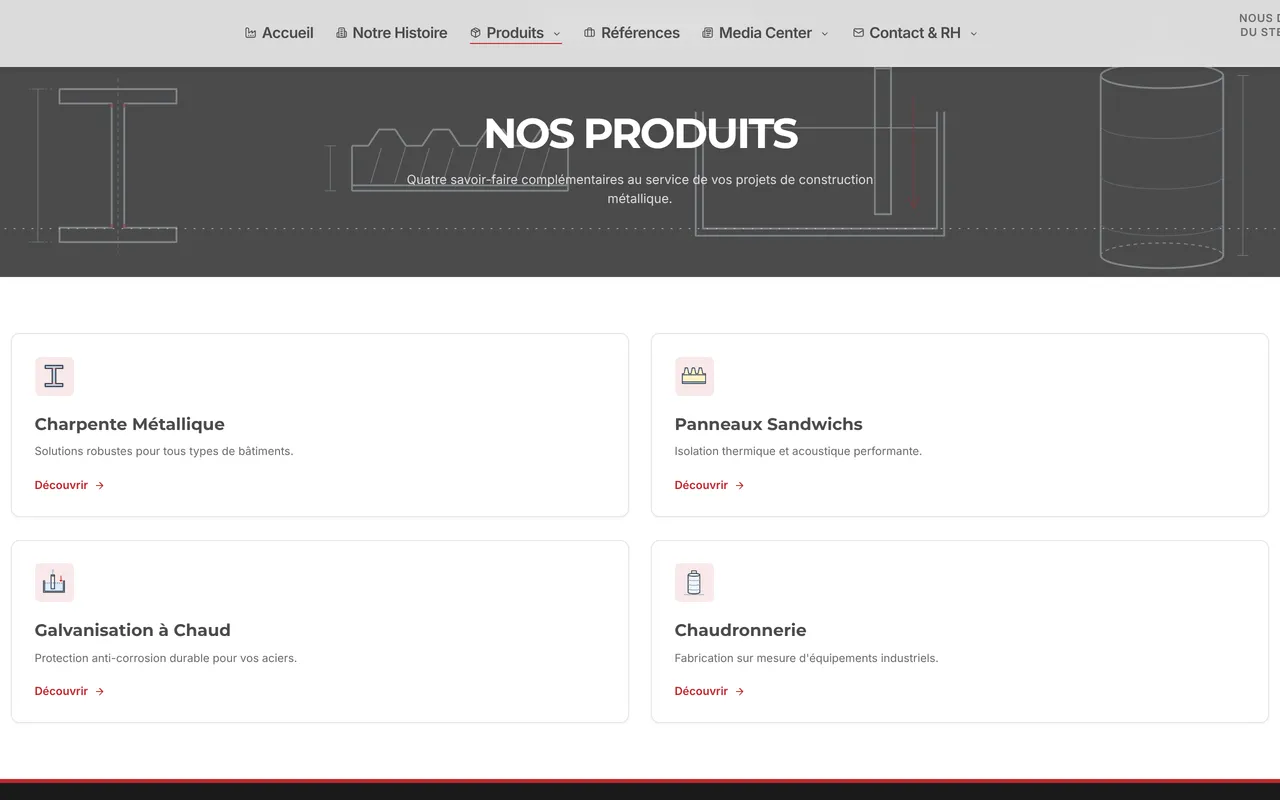
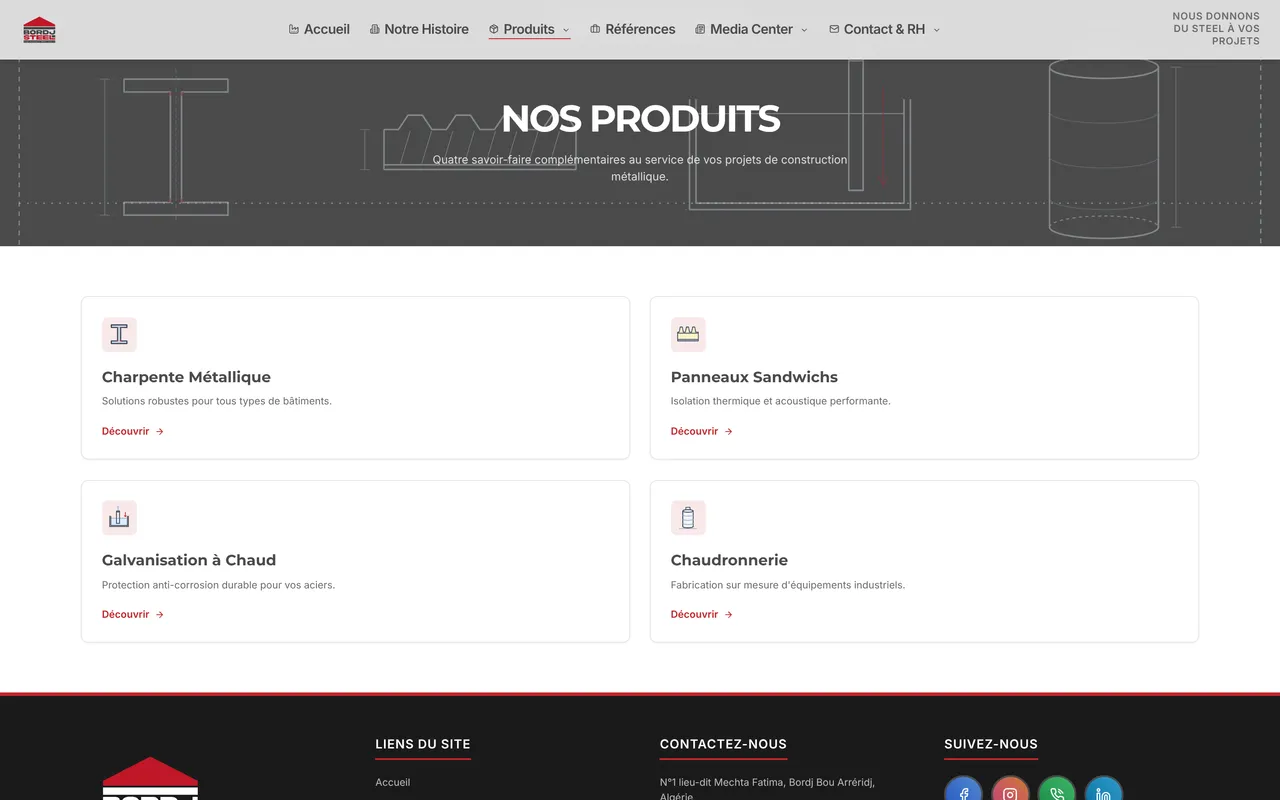
home: the drafted sheet carried to the footer (planche heads, crop-marked work plates two abreast, framed footer), tighter rhythm, whole captures
Section heads open on a numbered title-block rule (CSS counters, so the numbers follow the sections). The work is four plates with crop marks and a numbered caption, the live site on the title's line, two abreast from 720px. The Aperçu has its brackets, the founder is ruled not boxed, the footer closes the sheet in a brass-cornered frame. Section pad 56px phone / 80px at 1440, FAQ rows 56px. Bordj Steel's catalogue preview is the whole 1440 frame (the crop cut the nav), Nomara's keeps its headline whole. Measured with fonts loaded, fr, both themes: phone 390 13,725 to 13,219 px, desktop 1440 9,545 to 8,492 px.

Claude-Session: https://claude.ai/code/session_01TKjpKS8z4yQPZgiqdcfyuF

diff --git a/assets/styles.css b/assets/styles.css
@@ -685,47 +685,64 @@ html[dir="rtl"] .pm-item::after{transform:scaleX(-1)}
 }
 @media (forced-colors:active) and (hover:hover){.cl:hover img{background:LinkText}}
 
-/* ---------- the work rows (Fleet 5, B4) ----------
-   Four clients, four rows, the capture the object: no card box, no tint, no
-   zoom, no pills. Phones stack the capture over its words; from 960px the
-   capture takes seven of twelve tracks and the words five (the page's own
-   7/5), in RTL mirrored by the grid itself. The whole row is a way to its
-   sheet: the title's link is stretched over it (.proj h3 a::after), and the
-   live site and the benefit line, which lead elsewhere, sit above it. */
-.work-grid{display:grid;grid-template-columns:minmax(0,1fr);row-gap:var(--s-6)}
-@media (min-width:960px){.work-grid{row-gap:var(--s-7)}}
-.proj{position:relative;display:grid;grid-template-columns:minmax(0,1fr);gap:var(--s-5);align-items:start;
+/* ---------- the work: four plates (Fleet 6) ----------
+   Four clients, the capture the object: no card box, no tint, no zoom, no
+   pills. Each is a drafted plate, as the hero's: the capture inside four
+   brass crop marks, a numbered caption under it (01 | what it is), the
+   title with the live site on the same line, then the two sentences. Phones
+   stack them; from 720px they stand two abreast (the same four on a third
+   fewer pixels than four rows). The whole plate is a way to its sheet: the
+   title's link is stretched over it (.proj h3 a::after), and the live site
+   and the benefit line, which lead elsewhere, sit above it. */
+.work-grid{display:grid;grid-template-columns:minmax(0,1fr);gap:var(--s-7) 0;counter-reset:work}
+@media (min-width:720px){.work-grid{grid-template-columns:repeat(2,minmax(0,1fr));column-gap:var(--s-7);row-gap:var(--s-8)}}
+.proj{position:relative;display:grid;grid-template-columns:minmax(0,1fr);gap:var(--s-4);align-content:start;align-items:start;counter-increment:work;
   background:none;border:0;border-radius:0;box-shadow:none;overflow:visible}
-@media (min-width:960px){.proj{grid-template-columns:minmax(0,7fr) minmax(0,5fr);column-gap:var(--s-7);align-items:center}}
-.proj h3 a::after{content:"";position:absolute;inset:0;z-index:4}   /* the title's link, the row's way to its sheet */
+.proj h3 a::after{content:"";position:absolute;inset:0;z-index:4}   /* the title's link, the plate's way to its sheet */
 /* that link is a phone's tap target too: 12px above and below, given back by
    the margin, so the box grows and the title's rhythm does not */
 .proj h3 a{display:inline-block;padding-block:var(--s-3);margin-block:calc(-1 * var(--s-3));text-decoration:none}
 @media (hover:hover){.proj h3 a:hover{text-decoration:underline;text-underline-offset:5px;text-decoration-thickness:1px}}
 .proj .actions a[data-i18n="work.live"],.proj .body .gain{position:relative;z-index:5}
-/* the capture: 16:10 like the file, a hairline and the page's radius, nothing over it */
-.proj .thumb{position:relative;display:block;aspect-ratio:16/10;overflow:hidden;
+/* the capture: 16:10 like the file, a hairline and the page's radius, nothing
+   over it; four crop marks stand 4px outside it (the hero plate's idiom) */
+.proj .thumb{position:relative;display:block;aspect-ratio:16/10;overflow:visible;
   border:1px solid var(--hairline-2);border-radius:var(--r-md);background:var(--grad-blood);
   box-shadow:0 36px 60px -42px rgb(var(--shade) / calc(.9 * var(--shade-k)));
   transition:border-color var(--t-enter)}
 .proj .thumb:has(.shot){background:var(--navy)}
+.proj .thumb::before{content:"";position:absolute;inset:-12px;z-index:3;pointer-events:none;
+  --k:color-mix(in srgb,var(--crimson) 75%,transparent);
+  background:
+    linear-gradient(var(--k),var(--k)) 0 0/8px 1px,linear-gradient(var(--k),var(--k)) 0 0/1px 8px,
+    linear-gradient(var(--k),var(--k)) 100% 0/8px 1px,linear-gradient(var(--k),var(--k)) 100% 0/1px 8px,
+    linear-gradient(var(--k),var(--k)) 0 100%/8px 1px,linear-gradient(var(--k),var(--k)) 0 100%/1px 8px,
+    linear-gradient(var(--k),var(--k)) 100% 100%/8px 1px,linear-gradient(var(--k),var(--k)) 100% 100%/1px 8px;
+  background-repeat:no-repeat}
+.proj .thumb.sk::after{border-radius:inherit}
 .proj .browser{display:none}
-.proj .shot{position:absolute;inset:0;width:100%;height:100%;object-fit:cover;object-position:top center;display:block}
+.proj .shot{position:absolute;inset:0;width:100%;height:100%;object-fit:cover;object-position:top center;display:block;border-radius:inherit}
 @media (hover:hover){.proj:hover .thumb{border-color:rgba(var(--brand,230,180,80),.7)}}
-.proj .body{display:flex;flex-direction:column;align-items:flex-start;min-width:0;padding:0}
-.proj .cat{display:block;margin-bottom:var(--s-2);font-family:var(--font-body);font-size:var(--t-small);font-weight:400;
+.proj .body{display:grid;grid-template-columns:minmax(0,1fr) auto;column-gap:var(--s-4);align-items:center;align-content:start;justify-items:start;min-width:0;padding:0}
+.proj .body>*{grid-column:1/-1}
+.proj .body>h3{grid-column:1}
+.proj .body>.actions{grid-column:2;grid-row:2;justify-self:end}
+/* the caption: its number, a rule, what it is (the plate row under the hero's capture) */
+.proj .cat{display:flex;align-items:center;margin-bottom:var(--s-2);font-family:var(--font-body);font-size:var(--t-small);font-weight:400;
   letter-spacing:0;text-transform:none;color:var(--muted)}
-.proj h3{font-family:var(--font-display);font-weight:600;font-size:var(--t-feature);line-height:1.12;letter-spacing:-.015em;margin-bottom:var(--s-3)}
+.proj .cat::before{content:counter(work,decimal-leading-zero);margin-inline-end:var(--s-3);padding-inline-end:var(--s-3);border-inline-end:1px solid var(--hairline-2);
+  font-family:var(--font-mono);font-size:var(--t-label);letter-spacing:.08em;line-height:1.4;color:var(--crimson-text);font-variant-numeric:tabular-nums}
+.proj h3{font-family:var(--font-display);font-weight:600;font-size:var(--t-feature);line-height:1.12;letter-spacing:-.015em;margin-bottom:var(--s-2)}
 html[dir="rtl"] .proj h3{font-family:var(--font-ar-display)}
-.proj .body p{font-size:var(--t-body);line-height:1.6;color:var(--body-strong);margin-bottom:var(--s-3);min-height:0}
+.proj .body p{font-size:var(--t-body);line-height:1.6;color:var(--body-strong);margin-bottom:var(--s-2);min-height:0}
 /* What the client gets: the second sentence under the description, in the
    muted ink. It links to the full list on the project sheet (scene/, "Ce que
    le site apporte"); Nomara has no sheet, so its line is plain text. */
-.proj .body .gain{display:block;margin:0 0 var(--s-4);padding:0;border:0;font-size:var(--t-body);line-height:1.6;color:var(--muted);text-decoration:none;text-wrap:pretty}
-.proj .body a.gain{padding-block:10px;margin-block:-10px calc(var(--s-4) - 10px)}   /* a one-line sentence is still a 44px tap target */
+.proj .body .gain{display:block;margin:0;padding:0;border:0;font-size:var(--t-body);line-height:1.6;color:var(--muted);text-decoration:none;text-wrap:pretty}
+.proj .body a.gain{padding-block:10px;margin-block:-10px}   /* a one-line sentence is still a 44px tap target */
 @media (hover:hover){.proj .body a.gain:hover{color:var(--ice);text-decoration:underline;text-underline-offset:4px;text-decoration-thickness:1px}}
 .proj .actions{display:flex;flex-wrap:wrap;align-items:center;gap:0 var(--s-5);margin-top:0}
-.proj .actions a{display:inline-flex;align-items:center;gap:var(--s-2);min-height:44px;padding:0;font-family:var(--font-body);font-size:var(--t-body);font-weight:600;
+.proj .actions a{display:inline-flex;align-items:center;gap:var(--s-2);min-height:44px;padding:0;font-family:var(--font-body);font-size:var(--t-body);font-weight:600;white-space:nowrap;
   color:var(--crimson-text);text-decoration:underline;text-underline-offset:5px;text-decoration-thickness:1px;text-decoration-color:color-mix(in srgb,var(--crimson-text) 45%,transparent);
   transition:color var(--t-hover),text-decoration-color var(--t-hover)}
 @media (hover:hover){.proj .actions a:hover{color:var(--ice);text-decoration-color:currentColor}}
@@ -3076,3 +3093,78 @@ html[dir="rtl"] .channels dt{font-family:var(--font-ar-body)}
   #pricing>h2.sec{grid-column:1/span 6}
   #pricing>.sec-lead{grid-column:8/-1}
 }
+
+/* ═══════════════════════════════════════════════════════════════════════
+   FLEET 6 — THE HOME, 2026-11-08: the drafted sheet, carried to the footer
+   The hero is a sheet (brass corner brackets, crop marks on the capture, a
+   numbered caption). This block carries that idea down the page, sparingly:
+   every section opens on a numbered title-block rule (a counter, so the
+   numbers follow the sections), each plate in the work has its crop marks
+   and its number, the price weeks are a dimension line, and the founder and
+   the footer are ruled, not boxed. Brass stays the one accent. Written last.
+   Compactness is part of the brief: 56px between sections on a phone, 80 at
+   1440 (it was 64 and 96), the work two abreast from 720px, the founder
+   unboxed, the FAQ rows at 56px.
+   ═══════════════════════════════════════════════════════════════════════ */
+:root{--sec-pad:clamp(56px,56px + (100vw - 600px) * .0286,80px)}
+
+/* ---- the planche head: 01 | RÉALISATIONS ────────────┤ ---- */
+main:has(>#work){counter-reset:planche}
+main:has(>#work)>section:not(.hero,.proof){border-top:0;counter-increment:planche}
+main:has(>#work)>section:not(.hero,.proof)>.kicker{gap:var(--s-3);margin-bottom:var(--s-5);color:var(--muted)}
+main:has(>#work)>section:not(.hero,.proof)>.kicker::before{content:counter(planche,decimal-leading-zero);width:auto;height:auto;background:none;
+  padding-inline-end:var(--s-3);border-inline-end:1px solid var(--hairline-2);color:var(--crimson-text);letter-spacing:.08em;line-height:1.4;font-variant-numeric:tabular-nums}
+main:has(>#work)>section:not(.hero,.proof)>.kicker::after{content:"";flex:1 1 auto;width:auto;height:9px;margin:0;border-radius:0;transform:none;background:none;
+  --k:var(--hairline-2);
+  background:linear-gradient(var(--k),var(--k)) 0 50%/100% 1px no-repeat,linear-gradient(var(--k),var(--k)) 100% 50%/1px 100% no-repeat}
+html[dir="rtl"] main:has(>#work)>section:not(.hero,.proof)>.kicker::after{background:linear-gradient(var(--k),var(--k)) 0 50%/100% 1px no-repeat,linear-gradient(var(--k),var(--k)) 0 50%/1px 100% no-repeat}
+@media (min-width:1100px){main.wrap>section>.kicker{margin-bottom:var(--s-5)}}
+
+/* ---- services: tighter rows ---- */
+.svc-grid>.svc-row{padding-block:var(--s-5)}
+.cap{padding-block:var(--s-5)}
+.preview{margin-bottom:var(--s-7)}
+
+/* ---- pricing: the card's list and foot, tighter ---- */
+.t-list{gap:var(--s-2)}
+.t-for{margin-bottom:var(--s-4)}
+.t-foot .actions-row{padding-top:var(--s-5)}
+
+/* ---- the founder: ruled, not boxed ---- */
+#founder .founder-card{background:none;border:0;border-radius:0;box-shadow:none;padding:var(--s-6) 0 0;border-top:1px solid var(--hairline-2)}
+
+/* ---- the FAQ: 56px rows ---- */
+.faq-item summary{min-height:56px;padding-block:var(--s-3)}
+
+/* ---- the Aperçu: a plate with its brackets inside the border ---- */
+.preview::before{content:"";position:absolute;inset:var(--s-2);pointer-events:none;
+  --k:color-mix(in srgb,var(--crimson) 70%,transparent);
+  background:
+    linear-gradient(var(--k),var(--k)) 0 0/10px 1px,linear-gradient(var(--k),var(--k)) 0 0/1px 10px,
+    linear-gradient(var(--k),var(--k)) 100% 0/10px 1px,linear-gradient(var(--k),var(--k)) 100% 0/1px 10px,
+    linear-gradient(var(--k),var(--k)) 0 100%/10px 1px,linear-gradient(var(--k),var(--k)) 0 100%/1px 10px,
+    linear-gradient(var(--k),var(--k)) 100% 100%/10px 1px,linear-gradient(var(--k),var(--k)) 100% 100%/1px 10px;
+  background-repeat:no-repeat}
+
+/* ---- the price line under the tiers sits close to what it explains ---- */
+.price-note{margin-bottom:var(--s-6)}
+
+/* ---- the footer closes the sheet: a hairline frame, the brass brackets of the hero's ---- */
+.footer{position:relative;background:none;
+  padding-inline:calc(max(var(--gutter),env(safe-area-inset-left)) + var(--s-4)) calc(max(var(--gutter),env(safe-area-inset-right)) + var(--s-4))}
+.footer::before{content:"";position:absolute;inset:var(--s-5) max(var(--gutter),env(safe-area-inset-right)) var(--s-5) max(var(--gutter),env(safe-area-inset-left));pointer-events:none;
+  border:1px solid var(--hairline-2);
+  --k:var(--crimson);
+  background:
+    linear-gradient(var(--k),var(--k)) 0 0/14px 2px,linear-gradient(var(--k),var(--k)) 0 0/2px 14px,
+    linear-gradient(var(--k),var(--k)) 100% 0/14px 2px,linear-gradient(var(--k),var(--k)) 100% 0/2px 14px,
+    linear-gradient(var(--k),var(--k)) 0 100%/14px 2px,linear-gradient(var(--k),var(--k)) 0 100%/2px 14px,
+    linear-gradient(var(--k),var(--k)) 100% 100%/14px 2px,linear-gradient(var(--k),var(--k)) 100% 100%/2px 14px;
+  background-repeat:no-repeat}
+/* the phone's contact bar reserves 74px under the last line (the footer pads
+   for it): the frame ends above that reserve, not around it */
+@media (max-width:720px){.footer::before{bottom:calc(74px + env(safe-area-inset-bottom))}}
+@media (max-width:720px) and (max-height:560px) and (min-width:480px){.footer::before{bottom:var(--s-5)}}
+
+/* ---- the proof row's lower rule is the first planche's own ---- */
+main.wrap>section.proof{border-bottom:0}
